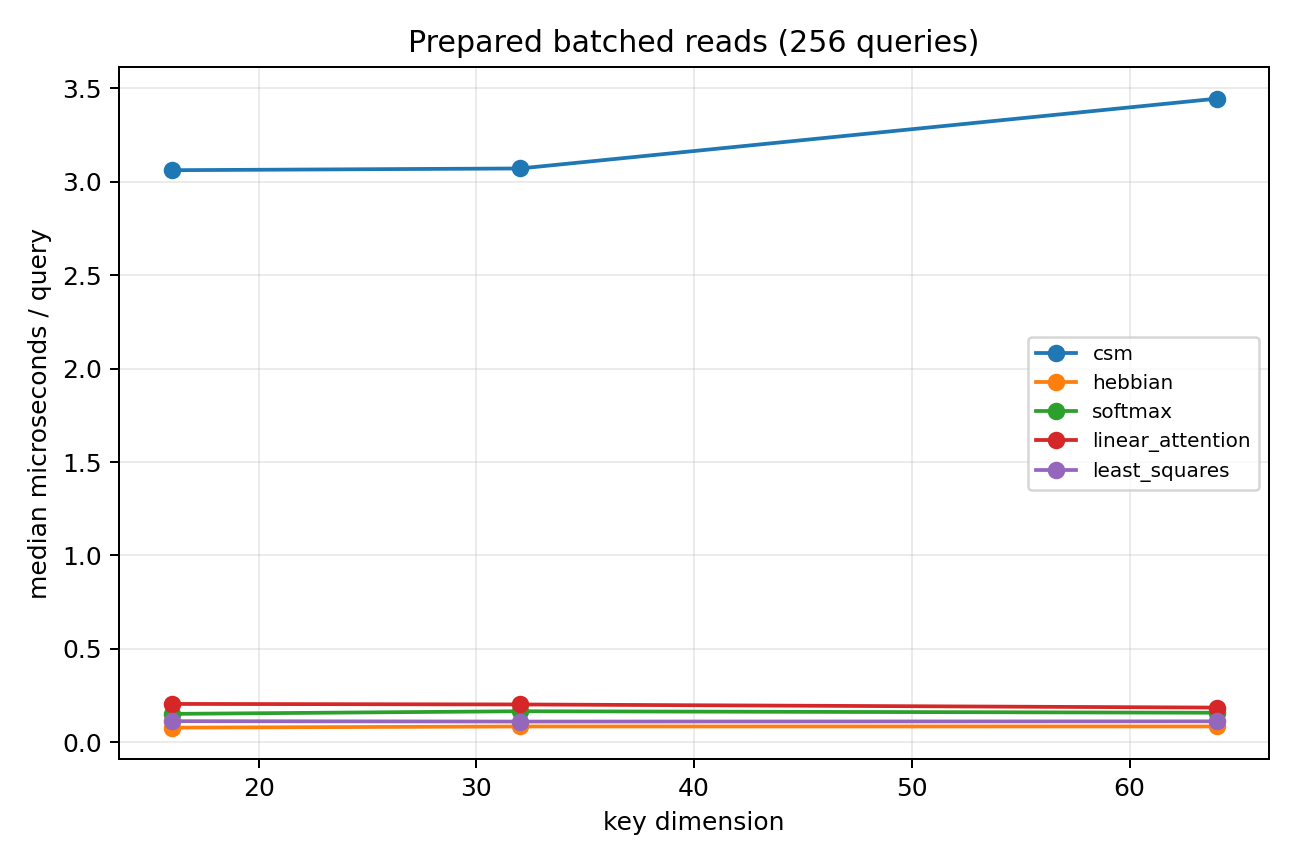
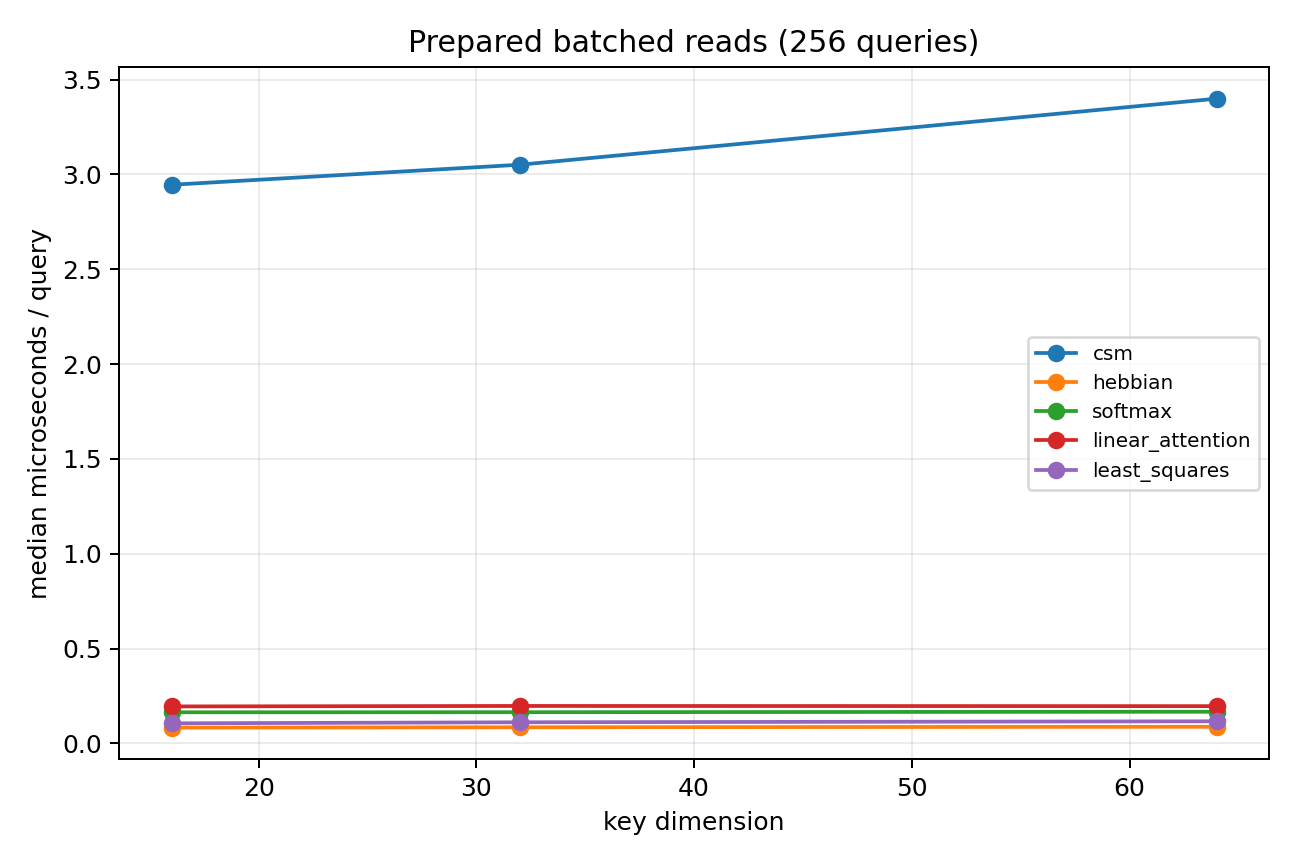
Finalize Phase 3 separation evidence

diff --git a/results/completion_audit.md b/results/completion_audit.md
@@ -1,6 +1,6 @@
-# Phase 0/1 completion audit
+# Phase 0–3 completion audit
 
-This audit maps every explicit requirement in `phase0.md` and `phase1.md` to authoritative repository evidence. “Pass” is limited to the current scope.
+This audit maps every explicit requirement in `phase0.md` through `phase3.md` to authoritative repository evidence. “Pass” is limited to the current scope.
 
 ## Phase 0
 
@@ -49,13 +49,62 @@ This audit maps every explicit requirement in `phase0.md` and `phase1.md` to aut
 | required report | `results/phase1_report.md` | PASS |
 | fp64 pass gate | state/read thresholds, PSD, gradcheck, pathologies all pass | PASS |
 | do not change definitions to pass | recurrence equations unchanged; theory edits correct separate overstated claims and missing premises | PASS |
-| no work beyond Phase 1 | no language model, learned encoder, dyadic cascade implementation, approximate inverse, or optimized kernel | PASS |
+| Phase 1 stopped at its gate | the Phase 1 checkpoint contains no language model, learned encoder, dyadic cascade, approximate inverse, or optimized kernel; later work began only after explicit user authorization | PASS |
+
+## Phase 2
+
+| Requirement | Evidence | Decision |
+|---|---|---|
+| dimensions `8,16,32,64,128` | committed config and all 12,600 CSV rows | PASS |
+| loads from `0.125` through `2.0` | eight committed loads on both sides of `K=d_key` | PASS |
+| logarithmic epsilon sweep and multiple seeds | seven epsilon values from `1e-12` to `1`, seeds `[0,1,2]` | PASS |
+| orthogonal/approximately orthogonal keys | `orthogonal` generator is exact QR under capacity and normalized random above | PASS |
+| random normalized Gaussian keys | `random_gaussian` regime and tests | PASS |
+| correlated keys | common-component regime at correlation `0.9` | PASS |
+| near-collinear and duplicate keys | both retained in complete sweep; no filtering | PASS |
+| Gaussian, one-hot, binary-like values | all three regimes in every key/epsilon dataset | PASS |
+| recall/exact-rate measurements | mean/median/p90/p99/max relative error, Frobenius error, exact rate | PASS |
+| Gram conditioning and minimum eigenvalue | rank, minimum eigenvalue, Gram/system condition in every row | PASS |
+| `c(q)` versus actual error | three `c(q)` aggregates plus inspected scatter plot | PASS |
+| error versus epsilon/load/conditioning | raw fields and five required inspected plots | PASS |
+| independent `K<=d_key` limit | median `2.214321e-12`, p99 `6.195306e-8` at minimum epsilon | PASS |
+| compare finite-epsilon theorem bound | 6,363 applicable rows; exact ratio and explicit fp64 roundoff allowance both retained | PASS |
+| no hidden loose seeds | 1,800 datasets / 12,600 rows; median, quantiles, worst cases; all seeds retained | PASS |
+| dependent/over-capacity breakdown | median low-epsilon separation ratio `3.034e11`, explained as rank limitation | PASS |
+| required five plots | epsilon, load, minimum Gram eigenvalue, `c(q)`, load/conditioning heatmap inspected | PASS |
+| required report | `results/phase2_interpolation_report.md` | PASS |
+| failed gate preserved | strict fp64/exact-real comparison failure preserved at `2f7dba6` and logged | PASS |
+| do not proceed automatically | Phase 3 proceeded only because the user explicitly requested both phases | PASS |
+
+## Phase 3
+
+| Requirement | Evidence | Decision |
+|---|---|---|
+| auditable Hebbian baseline | exact `C=V^T K`, `read=Q C^T`; equation test | PASS |
+| explicit normalized dot-product/softmax | explicit pair state, oracle temperature grid, normalized-weight tests | PASS |
+| simple linear-attention baseline | positive `ELU+1` features, numerator/normalizer statistics, convex-weight test | PASS |
+| ridge/least-squares oracle | Moore–Penrose explicit-pair oracle and interpolation test | PASS |
+| same key/value dimension fairness | all five methods across the full sweep; same-dimension plot | PASS |
+| same total state-byte fairness | explicit pairs capped at dense CSM byte budget; all 8,505 equal-budget recall rows audited within ceiling | PASS |
+| random independent recall | `random_gaussian` rows and report no-win table | PASS |
+| highly correlated and almost-colliding keys | `correlated` and `near_collinear` rows/plots | PASS |
+| capacity sweep | seven loads through `2.0`, both fairness plots | PASS |
+| epsilon sweep | three values and inspected CSM epsilon plot | PASS |
+| value-dimension sweep | `4,16,64`, explicit report table | PASS |
+| positive/negative/>1/nonunit coefficient queries | five named patterns with stored coefficient extrema/sums | PASS |
+| target `sum alpha_i v_i` | standard-basis values make target exactly `alpha`; code stores direct target errors | PASS |
+| convex-combination constraint | simplex-projection lower bound, weight nonnegativity/sum diagnostics, Lean theorems | PASS |
+| equal-memory separation | `K=d_key=d_value` makes CSM and softmax bytes exactly equal in all 180 audited comparison rows | PASS |
+| FLOPs/query and state bytes | every raw row plus representative report table | PASS |
+| wall-clock latency where reasonable | 15 prepared batched-read records, 10 warmups/50 repetitions, inspected plot | PASS |
+| document no-win regimes | explicit softmax/least squares beat or match stored recall; CSM reference slower; over-capacity failures scoped | PASS |
+| required report | `results/phase3_baseline_separation.md` | PASS |
+| pass gate | four precommitted checks pass; advantage limited to characterized equal-budget regimes | PASS |
 
 ## Formal proof interpretation
 
-`lake build` proves the exact statements listed in `lean/PROOF_COVERAGE.md`, including affine associativity, recurrence aggregation, exact simultaneous `(S,C)` action, actual finite-matrix PSD preservation, positive definiteness of `S+epsilon I`, invertibility, and scalar one-key identities. Claims outside that map are not labeled proved. Build failures encountered during development were syntax/tactic/API issues; none supplied a mathematical counterexample. The manuscript changes were instead justified by explicit first-principles derivations and executable counterexamples.
+`lake build` proves the exact statements listed in `lean/PROOF_COVERAGE.md`, including affine associativity, recurrence aggregation, exact simultaneous `(S,C)` action, finite-matrix PSD preservation, positive definiteness/invertibility, scalar ridge-factor properties, finite softmax normalization, and impossibility of matching negative, above-one, or nonunit-sum targets with normalized nonnegative weights. Claims outside that map—including the full matrix norm bound and floating-point backward stability—are not labeled proved. The one Lean failure in this work was the missing `noncomputable` marker for real division; it was a compilation issue, not a counterexample. No failed proof was treated as evidence that mathematics was false.
 
 ## Final decision
 
-Phase 0: **PASS**. Phase 1: **PASS**. All downstream gates remain closed.
-
+Phase 0: **PASS**. Phase 1: **PASS**. Phase 2: **PASS**. Phase 3: **PASS**. Learned-memory and NLP-scale gates remain closed.

diff --git a/RESEARCH_PLAN.md b/RESEARCH_PLAN.md
@@ -2,7 +2,7 @@
 
 ## Objective and scope
 
-The repository is organized to disprove claims early. Phase 0 audits the environment and names falsifiers. Phase 1 implements only the fp64 Gauss–Markov reference and tests equation fidelity. No language model, learned encoder, optimized scan, dyadic cascade, or approximate inverse belongs in these phases.
+The repository is organized to disprove claims early. Phase 0 audits the environment and names falsifiers. Phase 1 implements only the fp64 Gauss–Markov reference and tests equation fidelity. Phase 2 attacks interpolation, conditioning, and capacity; Phase 3 compares auditable baselines under dimension and byte fairness. No language model, learned encoder, optimized scan, dyadic cascade, or approximate inverse belongs in these phases.
 
 ## Dependency graph
 
@@ -19,9 +19,15 @@ P0-C record schema/risks ───┘                 │
                                              v
                                   P1 gate: equations agree
                                              │
+                                             v
+                              P2 interpolation/capacity gate
+                                             │
+                                             v
+                               P3 fair-baseline separation
+                                             │
                     ┌────────────────────────┴──────────────────────┐
                     v                                               v
-        future synthetic claim suite                    future learned-memory suite
+       remaining synthetic claim suite                  future learned-memory suite
                     └────────────────────────┬──────────────────────┘
                                              v
                              synthetic + learned gates both pass
@@ -30,7 +36,7 @@ P0-C record schema/risks ───┘                 │
                                   NLP-scale work may be proposed
 ```
 
-Only the graph through the Phase 1 gate is executed in the current scope. The downstream nodes are shown solely to make the hard dependency explicit.
+The graph through the Phase 3 gate is executed in the current scope. The remaining downstream nodes are shown solely to make the hard dependency explicit.
 
 ## Gates
 
@@ -53,9 +59,25 @@ Only the graph through the Phase 1 gate is executed in the current scope. The do
 - `results/phase1_report.md`, CSV metrics, JSON record, and plots are generated from one pinned config.
 - Lean build passes for its declared proof coverage. Lean-incomplete claims remain labeled unproved rather than failed.
 
+### Phase 2 pass gate
+
+- Full-row-rank recall visibly approaches interpolation as epsilon decreases.
+- The finite-epsilon bound is compared only in its valid domain, with exact-real and fp64 effects distinguished.
+- Dependent and over-capacity breakdown is retained, measurable, and explained through rank.
+- All dimensions, loads, seeds, key/value regimes, quantiles, worst cases, and required plots are recorded.
+
+### Phase 3 pass gate
+
+- Hebbian, explicit softmax, positive-feature linear attention, and least-squares oracle baselines are equation-tested.
+- Same-dimension and equal-state-byte regimes are both reported.
+- A fidelity separation survives equal-byte comparison in a clearly characterized regime.
+- Random, correlated, near-collision, capacity, epsilon, and value-dimension sweeps are retained.
+- Positive, negative, above-one, and nonunit-sum linear-functional queries are tested against convex-hull lower bounds.
+- FLOPs, state bytes, reasonable latency diagnostics, and regimes with no CSM win are reported.
+
 ### Non-negotiable NLP gate
 
-**NO NLP SCALE EXPERIMENT is allowed until both the complete synthetic-memory gate and a later learned-memory gate pass.** A Phase 1 pass is necessary but not sufficient.
+**NO NLP SCALE EXPERIMENT is allowed until both the complete synthetic-memory gate and a later learned-memory gate pass.** Phase 3 is still synthetic and unlearned, so its pass is not sufficient.
 
 ## Determinism policy
 
@@ -87,7 +109,8 @@ Only the graph through the Phase 1 gate is executed in the current scope. The do
 ```bash
 scripts/bootstrap.sh
 scripts/run_phase01.sh
+.venv/bin/python experiments/phase2_interpolation.py
+.venv/bin/python experiments/phase3_baseline_separation.py
 ```
 
-The first command creates the local environment from pinned requirements. The second reruns the environment audit, Python tests, Lean proofs, and Phase 1 measurements in fail-fast order.
-
+The first command creates the local environment from pinned requirements. The second reruns the environment audit, Python tests, Lean proofs, and Phase 1 measurements in fail-fast order. The final two commands reproduce the separately gated Phase 2 and Phase 3 records.

diff --git a/README.md b/README.md
@@ -1,10 +1,10 @@
 # Conjugate State Machines: falsification repository
 
-This repository turns the claims in [`conjugate-state-machines.md`](conjugate-state-machines.md) into reproducible tests. The current completed scope is **Phase 0 through Phase 2**: environment characterization, a mathematically transparent fp64 Gauss–Markov memory, and exhaustive finite-epsilon/capacity sweeps. It does not contain a language model, learned encoders, the dyadic cascade, or optimized kernels.
+This repository turns the claims in [`conjugate-state-machines.md`](conjugate-state-machines.md) into reproducible tests. The current completed scope is **Phase 0 through Phase 3**: environment characterization, a mathematically transparent fp64 Gauss–Markov memory, exhaustive finite-epsilon/capacity sweeps, and controlled baseline separation. It does not contain a language model, learned encoders, the dyadic cascade, or optimized kernels.
 
-Current status: **Phase 0 PASS; Phase 1 PASS; Phase 2 PASS** on the recorded MI300X environment. See [`results/phase0_report.md`](results/phase0_report.md), [`results/phase1_report.md`](results/phase1_report.md), and [`results/phase2_interpolation_report.md`](results/phase2_interpolation_report.md). Phase 3 baseline separation is in progress; later gates remain closed.
+Current status: **Phase 0 PASS; Phase 1 PASS; Phase 2 PASS; Phase 3 PASS** on the recorded MI300X environment. See [`results/phase0_report.md`](results/phase0_report.md), [`results/phase1_report.md`](results/phase1_report.md), [`results/phase2_interpolation_report.md`](results/phase2_interpolation_report.md), and [`results/phase3_baseline_separation.md`](results/phase3_baseline_separation.md). Later gates remain closed.
 
-> **Hard gate:** NO NLP SCALE EXPERIMENT is allowed until both the synthetic-memory gate and the learned-memory gate pass. Phase 1 only addresses the first part of the synthetic-memory program and does not unlock NLP experiments.
+> **Hard gate:** NO NLP SCALE EXPERIMENT is allowed until both the synthetic-memory gate and the learned-memory gate pass. Phases 1–3 remain synthetic and unlearned, so they do not unlock NLP experiments.
 
 ## Reproduce on the ROCm host
 
@@ -23,6 +23,8 @@ python3 -m venv .venv
   --config configs/phase1_reference.json
 .venv/bin/python experiments/phase2_interpolation.py \
   --config configs/phase2_interpolation.json
+.venv/bin/python experiments/phase3_baseline_separation.py \
+  --config configs/phase3_baselines.json
 ```
 
 PyTorch uses the `torch.cuda` API namespace on ROCm. No CUDA toolkit, NVIDIA device, or CUDA-specific package is assumed.
@@ -36,10 +38,12 @@ PyTorch uses the `torch.cuda` API namespace on ROCm. No CUDA toolkit, NVIDIA dev
 - [`tests/`](tests): equation-level and pathological tests.
 - [`experiments/phase1_numerics.py`](experiments/phase1_numerics.py): quantitative Phase 1 experiment and plot generator.
 - [`experiments/phase2_interpolation.py`](experiments/phase2_interpolation.py): complete interpolation, conditioning, and capacity sweep.
+- [`experiments/phase3_baseline_separation.py`](experiments/phase3_baseline_separation.py): same-dimension/equal-byte baseline and linear-functional comparison.
 - [`results/phase0_report.md`](results/phase0_report.md): Phase 0 decision report.
 - [`results/phase1_report.md`](results/phase1_report.md): Phase 1 gate evidence.
 - [`results/phase2_interpolation_report.md`](results/phase2_interpolation_report.md): Phase 2 gate evidence, including the retained initial numerical-bound failure.
-- [`lean/`](lean): Lean 4 proofs of the affine scan composition and recurrence unrolling identities.
+- [`results/phase3_baseline_separation.md`](results/phase3_baseline_separation.md): Phase 3 separation, resource, latency, and no-win evidence.
+- [`lean/`](lean): Lean 4 proofs of scan/recurrence identities, matrix invariants, ridge-factor properties, and normalized-softmax separation.
 
 ## Interpretation discipline
 

diff --git a/results/phase3_baseline_separation.md b/results/phase3_baseline_separation.md
@@ -42,6 +42,28 @@ The table aggregates the minimum-epsilon, at-or-below-capacity cases under the e
 
 The solver has a reproducible fidelity advantage over the compressed Hebbian and positive-feature linear-attention states for correlated keys. It does **not** dominate explicit retrieval: for random independent stored-key recall, median errors are CSM `4.438e-08`, oracle-tuned softmax `0.000e+00`, and least squares `7.800e-16`. At `K <= d_key`, explicit softmax fits the equal budget and is often the better stored-key mechanism. Above capacity, arbitrary-value recall fails for CSM and the least-squares projection, while budgeted explicit methods also omit pairs; no broad winner is claimed there.
 
+### Value-dimension sweep
+
+The following isolates correlated keys at or below capacity, minimum epsilon, and the equal state-byte budget. All three committed value dimensions are reported rather than averaged away.
+
+| d_value | method | median error | p90 error |
+| --- | ---: | ---: | ---: |
+| 4 | csm | 4.591e-07 | 3.964e-05 |
+| 4 | hebbian | 3.697e+00 | 6.172e+00 |
+| 4 | least_squares | 1.010e-14 | 2.285e-13 |
+| 4 | linear_attention | 9.739e-01 | 9.947e-01 |
+| 4 | softmax | 0.000e+00 | 0.000e+00 |
+| 16 | csm | 3.829e-07 | 8.707e-05 |
+| 16 | hebbian | 3.805e+00 | 6.877e+00 |
+| 16 | least_squares | 1.115e-14 | 6.803e-13 |
+| 16 | linear_attention | 9.667e-01 | 9.895e-01 |
+| 16 | softmax | 0.000e+00 | 0.000e+00 |
+| 64 | csm | 4.018e-07 | 7.666e-05 |
+| 64 | hebbian | 3.519e+00 | 6.101e+00 |
+| 64 | least_squares | 1.087e-14 | 5.834e-13 |
+| 64 | linear_attention | 9.714e-01 | 9.904e-01 |
+| 64 | softmax | 0.000e+00 | 0.000e+00 |
+
 ## Linear-functional separation
 
 Values are the standard basis, so the target is exactly `alpha`. Every normalized softmax output is therefore a simplex point. Negative coefficients, coefficients above one, and sums other than one put the target outside that convex hull; their Euclidean simplex-projection distance is a method-independent lower bound on softmax error. CSM and least squares can instead produce signed linear-span coefficients.
@@ -77,11 +99,11 @@ The following is the `d_key=64`, `d_value=16`, `K=64` prepared-read measurement.
 
 | method | state bytes | estimated FLOPs/query | measured us/query |
 | --- | ---: | ---: | ---: |
-| csm | 40960 | 10240 | 3.445 |
-| hebbian | 8192 | 2048 | 0.085 |
-| softmax | 40960 | 10560 | 0.158 |
-| linear_attention | 8704 | 2256 | 0.186 |
-| least_squares | 40960 | 10240 | 0.112 |
+| csm | 40960 | 10240 | 3.399 |
+| hebbian | 8192 | 2048 | 0.088 |
+| softmax | 40960 | 10560 | 0.167 |
+| linear_attention | 8704 | 2256 | 0.196 |
+| least_squares | 40960 | 10240 | 0.117 |
 
 ## Plots
 
@@ -93,13 +115,13 @@ The following is the `d_key=64`, `d_value=16`, `K=64` prepared-read measurement.
 
 ## Reproducibility
 
-- git source checkpoint: `b9b13a39739700192c0055f11e5ff9eeed905b3b`
+- git source checkpoint: `e1c592feb09dc769477b3e8fd566ac07a55e9e0e`
 - working tree dirty at experiment start: `False`
 - config: [`configs/phase3_baselines.json`](../configs/phase3_baselines.json)
 - seeds: `[0, 1, 2]`; deterministic regime-specific mixing is in source
 - hardware: `AMD Instinct MI300X VF`
 - software: Python `3.12.3`, PyTorch `2.8.0+rocm7.0.2.git245bf6ed`, HIP `7.0.51831-7c9236b16`, NumPy `2.3.2`
-- wall-clock time: `23.553` seconds
+- wall-clock time: `23.320` seconds
 - peak allocated VRAM: `0.126283` GiB
 - complete recall rows: [`phase3/associative_recall.csv`](phase3/associative_recall.csv)
 - complete linear-functional rows: [`phase3/linear_functional.csv`](phase3/linear_functional.csv)

diff --git a/EXPERIMENT_LOG.md b/EXPERIMENT_LOG.md
@@ -85,3 +85,20 @@ Machine-readable record: [`results/phase1_metrics.json`](results/phase1_metrics.
 - interpretation: Phase 2 supports full-row-rank interpolation and the finite-epsilon direction in its scoped synthetic domain, and clearly exposes rank-limited failure for dependent/over-capacity associations. It does not establish baseline superiority or learned/NLP performance.
 
 Machine-readable record: [`results/phase2_metrics.json`](results/phase2_metrics.json). Human report: [`results/phase2_interpolation_report.md`](results/phase2_interpolation_report.md).
+
+### P3-BASELINE-SEPARATION-20260823 — PASS
+
+- timestamp UTC: `2026-08-23T16:33:24.974687+00:00`
+- git commit: `e1c592feb09dc769477b3e8fd566ac07a55e9e0e`; the preceding complete passing output set is also preserved at that checkpoint
+- working tree dirty: `false` at experiment start
+- config: `configs/phase3_baselines.json`, with all resolved values embedded in `results/phase3_metrics.json`
+- seeds: `[0,1,2]`, deterministically mixed with dimensions and regime indices
+- hardware: AMD Instinct MI300X VF
+- software versions: Python 3.12.3; PyTorch 2.8.0+rocm7.0.2; HIP 7.0.51831; NumPy 2.3.2
+- wall-clock time: 23.320 seconds
+- peak VRAM: 135,595,008 bytes (0.126283 GiB allocated)
+- metrics: 17,010 recall rows, 900 linear-functional rows, and 15 latency rows; correlated compressed-baseline/CSM median error ratio `2.427e6`; equal-byte nonconvex CSM median absolute error `1.399e-7`; softmax/CSM median separation `4.496e6`; convex-hull checks exact within `2.220e-16`
+- plots: `plots/phase3/recall_vs_load_same_dimension.png`, `recall_vs_load_equal_state_budget.png`, `csm_epsilon_sweep.png`, `linear_functional_separation.png`, `prepared_read_latency.png`
+- interpretation: **PASS with important no-win regimes.** CSM separates from compressed Hebbian/linear memories on correlated keys and from normalized softmax on equal-byte nonconvex linear functionals. Oracle-tuned explicit softmax and least squares match or beat CSM on stored-key recall; the reference CSM read is also much slower in the recorded prepared-read latency diagnostic. No universal superiority is claimed.
+
+Machine-readable record: [`results/phase3_metrics.json`](results/phase3_metrics.json). Human report: [`results/phase3_baseline_separation.md`](results/phase3_baseline_separation.md).

diff --git a/lean/README.md b/lean/README.md
@@ -1,6 +1,6 @@
 # Lean 4 formalization
 
-This directory certifies the algebraic core used by Phase 0/1. It is intentionally narrower than the manuscript: empirical claims, complexity claims, statistical model adequacy, and prose-level novelty claims are not converted into theorems merely by compiling this project.
+This directory certifies the algebraic core used by Phases 0–3, including the normalized-softmax obstruction used in Phase 3. It is intentionally narrower than the manuscript: empirical claims, complexity claims, statistical model adequacy, matrix-norm numerical bounds, and prose-level novelty claims are not converted into theorems merely by compiling this project.
 
 Pinned toolchain: Lean 4.19.0 and mathlib 4.19.0.
 
@@ -18,4 +18,3 @@ lake build
 - An incomplete formalization is labeled incomplete; it is never reported as a failed theorem.
 
 See [`PROOF_COVERAGE.md`](PROOF_COVERAGE.md) for the theorem-to-manuscript map and scope.
-
